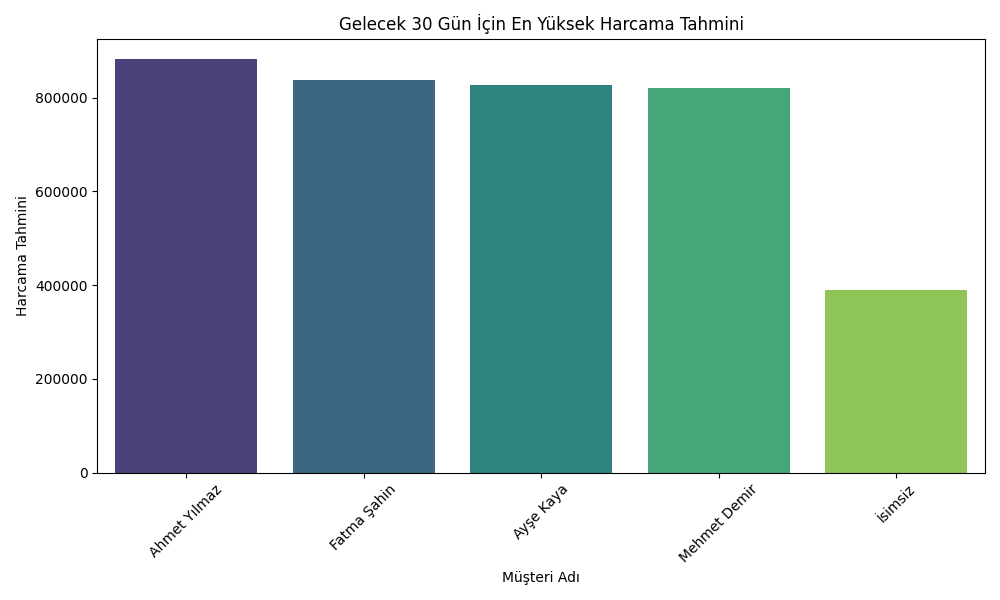
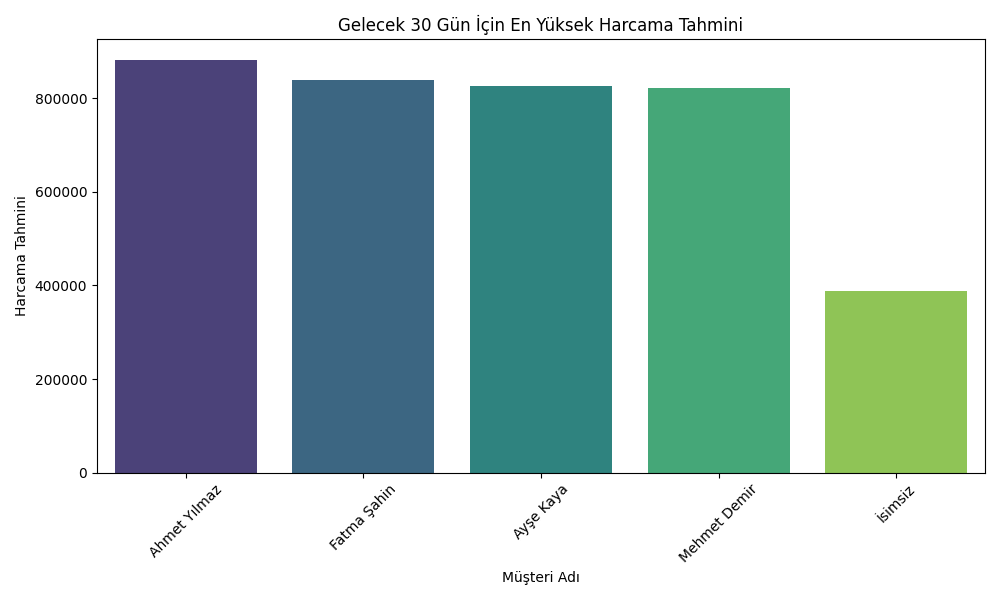
Rest Api

diff --git a/src/routes/userRoute.py b/src/routes/userRoute.py
@@ -1,0 +1,50 @@
+# userRoute 
+from fastapi import APIRouter
+
+from src.models.userAddRequest import UserAddRequest
+from src.utils.dummy import allUserData
+
+userRouter = APIRouter()
+users = allUserData()
+
+# add post method to add user
+@userRouter.post("/add")
+def add_user(request: UserAddRequest):
+    users.append(request)
+    return {"message": "User added successfully", "user": request}
+    
+# all users get method
+@userRouter.get("/all")
+def get_all_users():
+    return {"users": users}
+
+
+# get user by id
+@userRouter.get("/{user_id}")
+def get_user_by_id(user_id: int):
+    for user in users:
+        if user.id == user_id:
+            return {"user": user}
+    return {"message": "User not found"}
+
+
+# delete user by id
+@userRouter.delete("/{user_id}")
+def delete_user_by_id(user_id: int):
+    for user in users:
+        if user.id == user_id:
+            users.remove(user)
+            return {"message": "User deleted successfully"}
+    return {"message": "User not found"}
+
+# update user by id
+@userRouter.put("/{user_id}")
+def update_user_by_id(user_id: int, request: UserAddRequest):
+    for user in users:
+        if user.id == user_id:
+            user.name = request.name
+            user.surname = request.surname
+            user.email = request.email
+            user.password = request.password
+            return {"message": "User updated successfully", "user": user}
+    return {"message": "User not found"}

diff --git a/src/utils/dummy.py b/src/utils/dummy.py
@@ -1,0 +1,14 @@
+from src.models.userAddRequest import UserAddRequest
+
+
+def allUserData() -> list[UserAddRequest]:
+    users = [
+        UserAddRequest(id=1, name="Hakan", surname="Yıldız", email="hakan@mail.com", password="12345"),
+        UserAddRequest(id=2, name="Ayşe", surname="Demir", email="ayse@mail.com", password="67890"),
+        UserAddRequest(id=3, name="Mehmet", surname="Kara", email="mehmet@mail.com", password="54321"),
+        UserAddRequest(id=4, name="Elif", surname="Yılmaz", email="elif@mail.com", password="98765"),
+        UserAddRequest(id=5, name="Ahmet", surname="Çelik", email="ahmet@mail.com", password="11223"),
+        UserAddRequest(id=6, name="Fatma", surname="Öztürk", email="fatma@mail.com", password="33445"),
+        UserAddRequest(id=7, name="Ali", surname="Kaya", email="ali@mail.com", password="55667")
+    ]
+    return users

diff --git a/src/routes/mlRouter.py b/src/routes/mlRouter.py
@@ -1,0 +1,17 @@
+from fastapi import APIRouter
+
+from src.days_6.days6 import ML
+
+mlRouter = APIRouter()
+
+ml = ML()
+df = ml.load_csv()
+
+# predict_top_spenders_next_30_days endpoint
+@mlRouter.get("/30gunHarcamaYapacaklar")
+def predict_top_spenders_next_30_days():
+    top_spenders = ml.predict_top_spenders_next_30_days(df)
+    return {
+        "success": True,
+        "data": top_spenders.to_dict(orient="records")
+    }

diff --git a/src/days_6/days6.py b/src/days_6/days6.py
@@ -1,6 +1,8 @@
 import pandas as pd
 import numpy as np
 
+import matplotlib
+matplotlib.use("Agg")
 import matplotlib.pyplot as plt
 import seaborn as sns
 
@@ -187,10 +189,11 @@ class ML:
 
         return worst5
 
-    
+""""  
 if __name__ == "__main__":
     ml = ML()
     df = ml.load_csv()
     ml.train_model(df)
     ml.predict_top_spenders_next_30_days(df)
     ml.predict_no_spenders_next_30_days(df)
+"""

diff --git a/src/main.py b/src/main.py
@@ -1,0 +1,12 @@
+# /data şeklinde örnek bir servis yaz
+from fastapi import FastAPI
+
+from .routes.mlRouter import mlRouter
+from .routes.userRoute import userRouter
+
+app = FastAPI()
+
+# userRouter include edilmesi
+app.include_router(userRouter, prefix="/user")
+app.include_router(mlRouter, prefix="/ml")
+

diff --git a/src/models/userAddRequest.py b/src/models/userAddRequest.py
@@ -1,0 +1,9 @@
+from dataclasses import dataclass
+
+@dataclass
+class UserAddRequest:
+    id: int
+    name: str
+    surname: str
+    email: str
+    password: str
